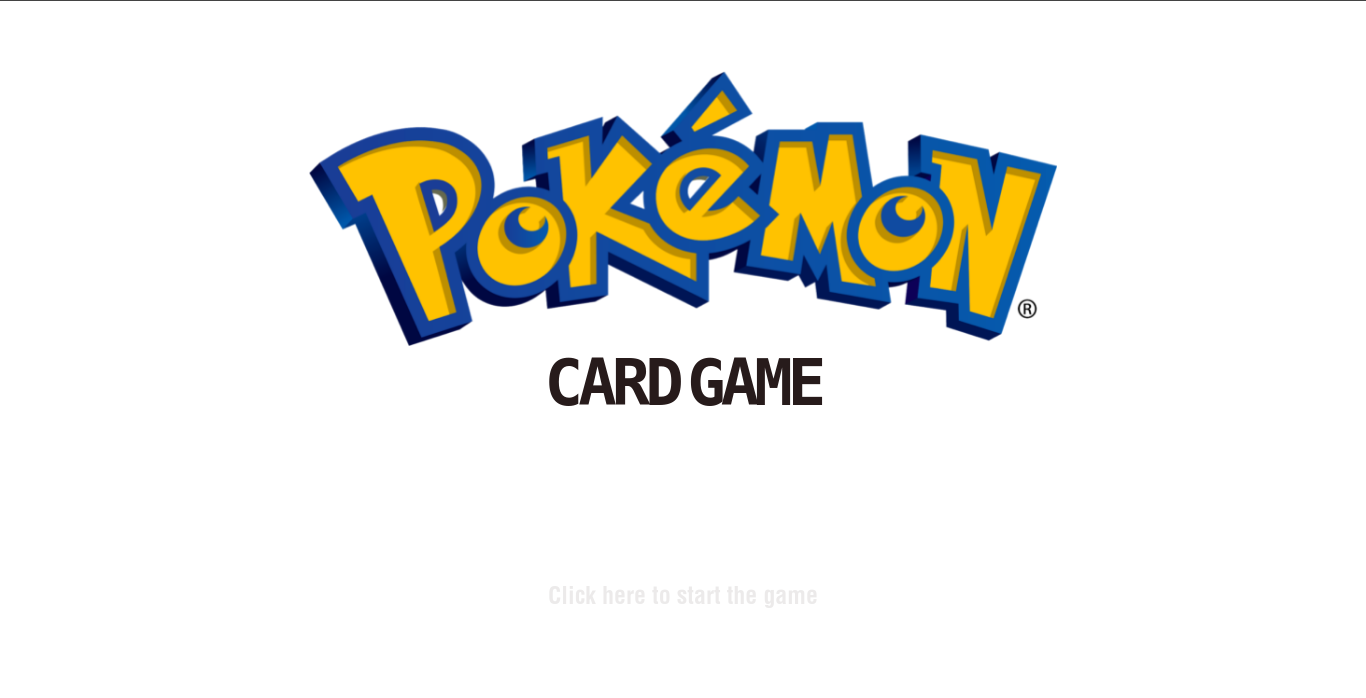
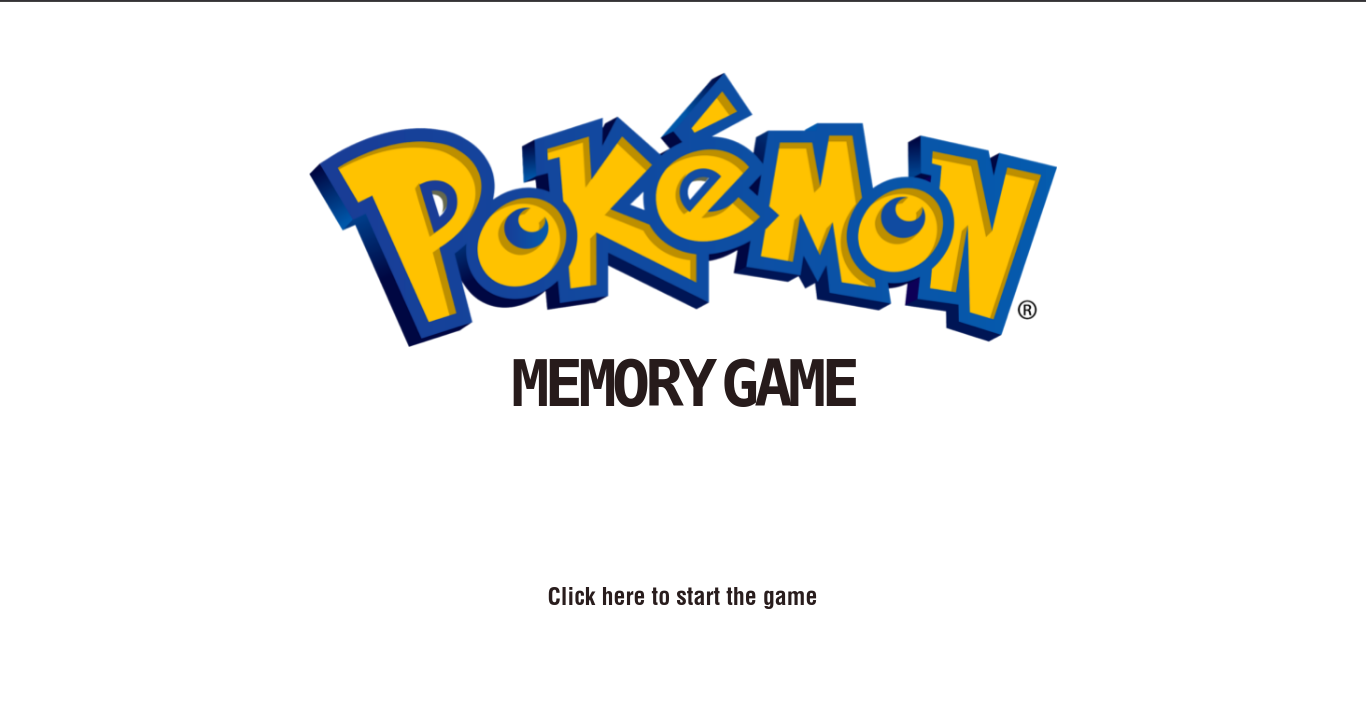
Fixed typo 	- Fixed typo in game sub-heading and title 	- Changed cursor style 	- Replaced a screenshot

diff --git a/index.html b/index.html
@@ -4,7 +4,7 @@
     <meta charset="UTF-8">
     <meta http-equiv="X-UA-Compatible" content="IE=edge">
     <meta name="viewport" content="width=device-width, initial-scale=1.0">
-    <title>Memory Game</title>
+    <title>Pokemon Memory Game</title>
 
     <!-- External libraries -->
     <link rel="stylesheet" href="https://cdnjs.cloudflare.com/ajax/libs/animate.css/4.1.1/animate.min.css"/>
@@ -24,7 +24,7 @@
                 <img class="start-game-window-banner-image" src="./assets/images/banner.png" alt="" srcset="">
             </div>
             <span class="sub-heading-wrapper">
-                Card game
+                Memory game
             </span>
         </div>
         <div class="start-game-window-footer flex-all-center">

diff --git a/stylesheets/main.css b/stylesheets/main.css
@@ -68,6 +68,7 @@ body {
 .press-here-text {
   color: rgb(39, 27, 27);
   font-size: 1.5rem;
+  cursor: pointer;
 }
 
 .blurred-bg,
@@ -177,6 +178,7 @@ body {
 
 .pokemon-card{
   width: 100px;
+  cursor: help;
 }
 
 /* Won game */
